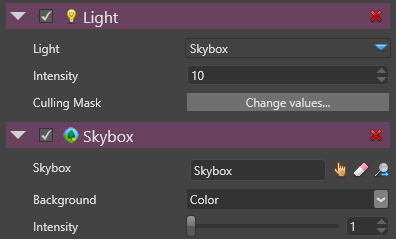
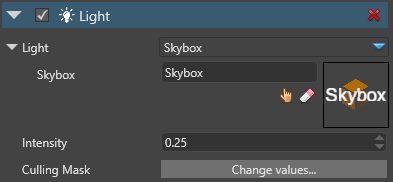
[Skyboxes] update, rewrite, new screenshots

diff --git a/manual/graphics/lights-and-shadows/skybox-lights.md b/manual/graphics/lights-and-shadows/skybox-lights.md
@@ -4,14 +4,11 @@
 <span class="label label-doc-audience">Designer</span>
 <span class="label label-doc-audience">Programmer</span>
 
-A skybox light is an [ambient light](ambient-lights.md) emitted by a [skybox](../skyboxes.md).  Xenko analyzes the skybox cubemap and generates lighting using [image-based lighting (Wikipedia)](https://en.wikipedia.org/wiki/Image-based_lighting).
+A skybox light is an [ambient light](ambient-lights.md) emitted by a [skybox](../skyboxes.md). Xenko analyzes the skybox cubemap and generates lighting using [image-based lighting (Wikipedia)](https://en.wikipedia.org/wiki/Image-based_lighting).
 
-![media/SkyboxLightOverview.png](media/SkyboxLightOverview.png) 
+![media/SkyboxLightOverview.png](media/SkyboxLightOverview.png)
 
-To use a skybox light, an entity must have both:
-
-* a [Light component](xref:SiliconStudio.Xenko.Engine.LightComponent) of type **Skybox**
-* a [Skybox component](xref:SiliconStudio.Xenko.Engine.SkyboxComponent)
+You don't need actually display the skybox in the scene to use it as a light source. For example, you might not want to use the skybox to light the scene if the sky is only partly visible from an interior location (eg through windows of a room). As skybox lights aren't affected by shadows, they light every part of the scene, including interior spaces.
 
 ## How skyboxes light the scene
 
@@ -32,7 +29,7 @@ Notice how the skybox texture colours are reflected.
 
 To set up a skybox light, you first need a skybox asset and an entity with a [Skybox component](xref:SiliconStudio.Xenko.Engine.SkyboxComponent). For information about how to add these, see the [Skybox](../skyboxes.md) page.
 
-1. Select the entity that has the [Skybox component](xref:SiliconStudio.Xenko.Engine.SkyboxComponent).
+1. Select the entity you want to be the skybox light.
 
 2. In the entity **Properties grid**, click **Add component** and select [Light](xref:SiliconStudio.Xenko.Engine.LightComponent).
 
@@ -42,22 +39,20 @@ To set up a skybox light, you first need a skybox asset and an entity with a [Sk
 
     ![Light component property](media/light-component-property.png)
 
-The [Light componenet](xref:SiliconStudio.Xenko.Engine.LightComponent) uses the skybox asset to light the scene.
+The [Light component](xref:SiliconStudio.Xenko.Engine.LightComponent) uses the skybox asset to light the scene.
 
 ## Skybox asset properties
 
-The skybox asset properties affect how the skybox lights the scene.
+When you use a skybox as a light, Xenko uses it both in compressed form ([spherical harmonics (Wikipedia)](https://en.wikipedia.org/wiki/Spherical_harmonics)) and as a texture to light different kinds of material. In the **Properties grid**, you can control the detail of both.
 
-When you use a skybox as a light, Xenko uses it both in compressed form ([spherical harmonics (Wikipedia)](https://en.wikipedia.org/wiki/Spherical_harmonics)), and as a texture, to light different kinds of material. In the **Properties grid**, you can control the detail of both.
-
-![Skybox lighting properties](media/skybox-lighting-and-background.png)
+![Skybox lighting properties](media/UPDATE WITH GUS'S NEW CHECKBOX UI.png)
 
 | Property     | Description                                                                                                                                                                                    |
 | ------------ | ---------------------------------------------------------------------------------------------------------------------------------------------------------------------------------------------- |
 | Cube Map |  The cubemap asset used for the skybox. 
-| Usage        |  Specify whether the skybox is visible at runtime (**Lighting and Background**) or only used for lighting (**Lighting**). Note that the **Background** option is deprecated and will be removed in a future release.
+| Ambient lighting      |  Use the skybox for ambient lighting as well as specular lighting
 | Diffuse SH Order  | The level of detail of the compressed skybox, used for diffuse lighting (dull materials). `Order5` is more detailed than `Order3`. |
-| Specular Cubemap Size | The texture size used for specular lighting (shiny materials). Larger textures have more detail. |
+| Specular Cubemap Size | The texture size used for specular lighting. Larger textures have more detail. |
 
 ## Skybox light properties
 
@@ -65,12 +60,8 @@ When you use a skybox as a light, Xenko uses it both in compressed form ([spheri
 
 | Property     | Description   |
 | ------------ | ---------------------------------------------------------------------------------------------------------------------------------------------------------------------------------------------- |
-| Type         | Skybox                                                                                                                                                                                         |
-| Intensity    | The light intensity. The value has no units, as it is dependent on the Skybox component values (see the note below). |
-| Culling Mask | Which entity groups are affected by the light. By default, all groups are affected.                                                                                                   |
-
->[!Note]
->The **Intensity** properties in the Skybox and Light components are linked. To calculate the Light component [intensity](xref:SiliconStudio.Xenko.Engine.LightComponent.Intensity), Xenko multiplies it by the Skybox component [intensity](xref:SiliconStudio.Xenko.Engine.SkyboxComponent.Intensity). The final color is defined as: `final Color = Skybox Sampler Color * Light Skybox Intensity * Skybox Intensity`
+| Intensity    | The light intensity |
+| Culling Mask | Which entity groups are affected by the light. By default, all groups are affected                                                                                                   |
 
 ## See also
 

diff --git a/manual/graphics/skyboxes.md b/manual/graphics/skyboxes.md
@@ -23,7 +23,7 @@ Currently, Game Studio can't convert image files to `.dds` files. Use another ap
 * [Nvidia conversion tool](https://developer.nvidia.com/nvidia-texture-tools-adobe-photoshop)
 * [ATI conversion tool](http://developer.amd.com/tools-and-sdks/archive/games-cgi/cubemapgen)
 
-### Add a cubemap asset to a project
+### Add a cubemap to a project
 
 * In the **Asset view**, click ![](media/engine-skybox-add-new-asset-button.png), select **Textures** > **Texture**, and browse to the `.dds` file.
 
@@ -35,7 +35,7 @@ Currently, Game Studio can't convert image files to `.dds` files. Use another ap
 
 The cubemap is now available as an asset in your project. You can use the cubemap asset in your skybox asset.
 
-## Add a skybox asset to a project
+## Add a skybox to a project
 
 1. In the **Asset view**, click ![Add new asset](media/engine-skybox-add-new-asset-button.png)
 
@@ -51,36 +51,33 @@ The cubemap is now available as an asset in your project. You can use the cubema
 
 The skybox asset properties affect how the skybox lights the scene. For information about these properties, see [Skybox lights](lights-and-shadows/skybox-lights.md).
 
-## Add a skybox component to an entity
+## Use a skybox
 
-Xenko includes an entity with a [Skybox component](xref:SiliconStudio.Xenko.Engine.SkyboxComponent) in the project by default. Only one skybox can be active in a scene at a time. If there are multiple skyboxes, Xenko loads the first only.
+To use a skybox, add it to a **background component**.
 
-You can add [Skybox components](xref:SiliconStudio.Xenko.Engine.SkyboxComponent) to as many entities as you need. You might want to include more than one skybox, for example, if you want to switch between them at runtime.
+Xenko includes an entity with a background component in the project by default. Only one skybox can be active in a scene at a time. If there are multiple skyboxes, Xenko only loads the first only.
 
-To add a [Skybox component](xref:SiliconStudio.Xenko.Engine.SkyboxComponent) to an entity:
+You can add background component to as many entities as you need. You might want to include more than one background, for example, if you want to switch skyboxes at runtime.
+
+To add a skybox to an entity:
 
 1. In the **Scene view**, select the entity you want to add the component to.
 
     This can be an empty entity. Its position in the scene doesn't matter.
 
-2. In the **Property grid**, click **Add component** and select **Skybox component**.
+2. In the **Property grid**, click **Add component** and select **Background**.
 
-    ![Add skybox component](media/engine-skybox-add-skybox-component.png)
+    ![Add background component](media/engine-skybox-add-background-component.png)
 
-3. Specify the **skybox asset** you want to use.
+3. Under **texture**, specify the skybox asset you want to use.
 
-    ![Skybox component properties](media/engine-skybox-skybox-components-properties.png)
+    ![Background component properties](media/engine-skybox-background-component-properties.png)
 
-You can modify the following [Skybox component](xref:SiliconStudio.Xenko.Engine.SkyboxComponent) settings:
-
-* [Background](xref:SiliconStudio.Xenko.Engine.SkyboxComponent.Background): how to display the skybox.
-* [Intensity](xref:SiliconStudio.Xenko.Engine.SkyboxComponent.Intensity): the skybox background radiation intensity, from 0 (none) to 100 (maximum).
+Xenko displays the skybox in the scene.
 
 ## Use a skybox as a light source
 
-You can set the skybox as the light type in a [Light component](xref:SiliconStudio.Xenko.Engine.LightComponent). Xenko analyzes the skybox and generates lighting using [image-based lighting (Wikipedia)](https://en.wikipedia.org/wiki/Image-based_lighting).
-
-For more information, see [Skybox lights](lights-and-shadows/skybox-lights.md).
+You can set the skybox as the light type in a [Light component](xref:SiliconStudio.Xenko.Engine.LightComponent). Xenko analyzes the skybox texture and generates lighting using [image-based lighting (Wikipedia)](https://en.wikipedia.org/wiki/Image-based_lighting). For more information, see [Skybox lights](lights-and-shadows/skybox-lights.md).
 
 ## Example code
 
